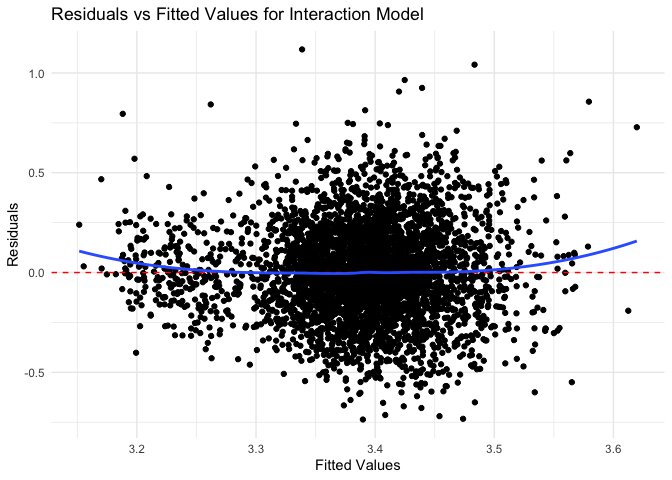
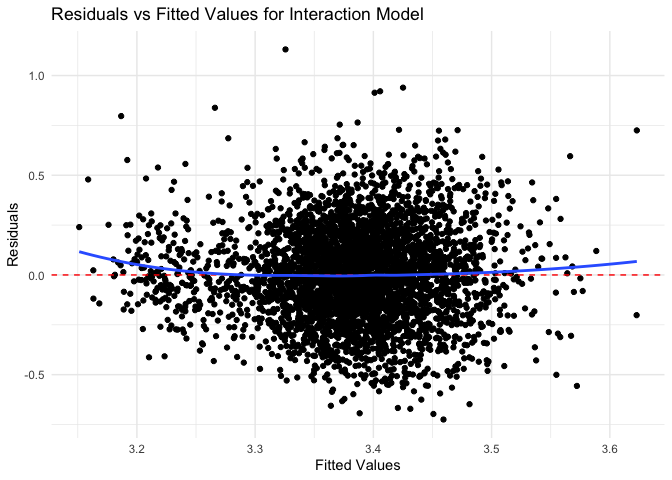
changes

diff --git a/p8105-Final-model-analysis.md b/p8105-Final-model-analysis.md
@@ -172,9 +172,9 @@ cv_results |>
     ## # A tibble: 3 × 2
     ##   model_type    m_rmse
     ##   <chr>          <dbl>
-    ## 1 fast_adjusted  0.328
-    ## 2 fast_crude     0.511
-    ## 3 fast_inter     0.349
+    ## 1 fast_adjusted  0.315
+    ## 2 fast_crude     0.481
+    ## 3 fast_inter     0.346
 
 ``` r
 cv_results |> 
@@ -288,9 +288,9 @@ cv_results_sedentary |>
     ## # A tibble: 3 × 2
     ##   model_type m_rmse
     ##   <chr>       <dbl>
-    ## 1 adjusted    0.234
+    ## 1 adjusted    0.235
     ## 2 crude       0.237
-    ## 3 inter       0.234
+    ## 3 inter       0.235
 
 In the context of these models, a lower RMSE indicates a more accurate
 prediction of BMI from the predictors used in the model.
@@ -331,31 +331,31 @@ print(best_model_summary)
     ## 
     ## Residuals:
     ##      Min       1Q   Median       3Q      Max 
-    ## -0.73985 -0.15583 -0.00707  0.14567  1.12498 
+    ## -0.73644 -0.15414 -0.00622  0.14595  1.11803 
     ## 
     ## Coefficients:
     ##                                            Estimate Std. Error t value Pr(>|t|)
-    ## (Intercept)                               3.381e+00  1.881e-02 179.710  < 2e-16
-    ## sedentary_activity                        1.841e-04  1.919e-05   9.595  < 2e-16
-    ## age                                       1.306e-04  2.426e-04   0.538  0.59043
-    ## genderMale                               -4.650e-02  7.510e-03  -6.192 6.52e-10
-    ## marital_statusNever married              -2.829e-02  1.059e-02  -2.672  0.00757
-    ## marital_statusWidowed/Divorced/Separated -3.038e-02  9.583e-03  -3.171  0.00153
-    ## raceMexican American                      6.086e-04  1.274e-02   0.048  0.96190
-    ## raceOther                                -1.795e-01  1.559e-02 -11.513  < 2e-16
-    ## raceOther Hispanic                       -1.480e-02  1.342e-02  -1.103  0.27010
-    ## raceWhite                                -3.800e-02  9.305e-03  -4.084 4.52e-05
-    ## educationHigh school graduate             1.037e-02  1.191e-02   0.871  0.38405
-    ## educationLess than 9th grade              2.548e-03  1.610e-02   0.158  0.87429
-    ## educationSome college or AA degree        1.225e-02  1.180e-02   1.039  0.29904
-    ## income_to_poverty                        -1.051e-03  2.741e-03  -0.383  0.70144
+    ## (Intercept)                               3.374e+00  1.862e-02 181.146  < 2e-16
+    ## sedentary_activity                        1.842e-04  1.864e-05   9.885  < 2e-16
+    ## age                                       1.891e-04  2.405e-04   0.786 0.431702
+    ## genderMale                               -4.631e-02  7.431e-03  -6.232 5.07e-10
+    ## marital_statusNever married              -2.312e-02  1.052e-02  -2.198 0.027973
+    ## marital_statusWidowed/Divorced/Separated -3.660e-02  9.523e-03  -3.843 0.000123
+    ## raceMexican American                     -6.484e-04  1.254e-02  -0.052 0.958764
+    ## raceOther                                -1.733e-01  1.516e-02 -11.436  < 2e-16
+    ## raceOther Hispanic                       -1.563e-02  1.320e-02  -1.184 0.236561
+    ## raceWhite                                -3.790e-02  9.231e-03  -4.106 4.11e-05
+    ## educationHigh school graduate             1.279e-02  1.178e-02   1.085 0.277905
+    ## educationLess than 9th grade              5.585e-03  1.597e-02   0.350 0.726555
+    ## educationSome college or AA degree        1.585e-02  1.169e-02   1.356 0.175310
+    ## income_to_poverty                         3.923e-04  2.694e-03   0.146 0.884240
     ##                                             
     ## (Intercept)                              ***
     ## sedentary_activity                       ***
     ## age                                         
     ## genderMale                               ***
-    ## marital_statusNever married              ** 
-    ## marital_statusWidowed/Divorced/Separated ** 
+    ## marital_statusNever married              *  
+    ## marital_statusWidowed/Divorced/Separated ***
     ## raceMexican American                        
     ## raceOther                                ***
     ## raceOther Hispanic                          
@@ -367,10 +367,10 @@ print(best_model_summary)
     ## ---
     ## Signif. codes:  0 '***' 0.001 '**' 0.01 '*' 0.05 '.' 0.1 ' ' 1
     ## 
-    ## Residual standard error: 0.2355 on 4060 degrees of freedom
-    ##   (5036 observations deleted due to missingness)
-    ## Multiple R-squared:  0.06434,    Adjusted R-squared:  0.06134 
-    ## F-statistic: 21.47 on 13 and 4060 DF,  p-value: < 2.2e-16
+    ## Residual standard error: 0.234 on 4096 degrees of freedom
+    ##   (5000 observations deleted due to missingness)
+    ## Multiple R-squared:  0.06637,    Adjusted R-squared:  0.0634 
+    ## F-statistic:  22.4 on 13 and 4096 DF,  p-value: < 2.2e-16
 
 ``` r
 # Plotting the 'adjusted' model's fitted values vs. residuals
@@ -394,7 +394,7 @@ print(residual_plot)
 
     ## `geom_smooth()` using formula = 'y ~ x'
 
-![](p8105-Final-model-analysis_files/figure-gfm/unnamed-chunk-2-1.png)<!-- -->
+![](p8105-Final-model-analysis_files/figure-gfm/residual%20plot%20for%20activity-1.png)<!-- -->
 
 ## Interpretation of the Adjusted model (activity)
 
